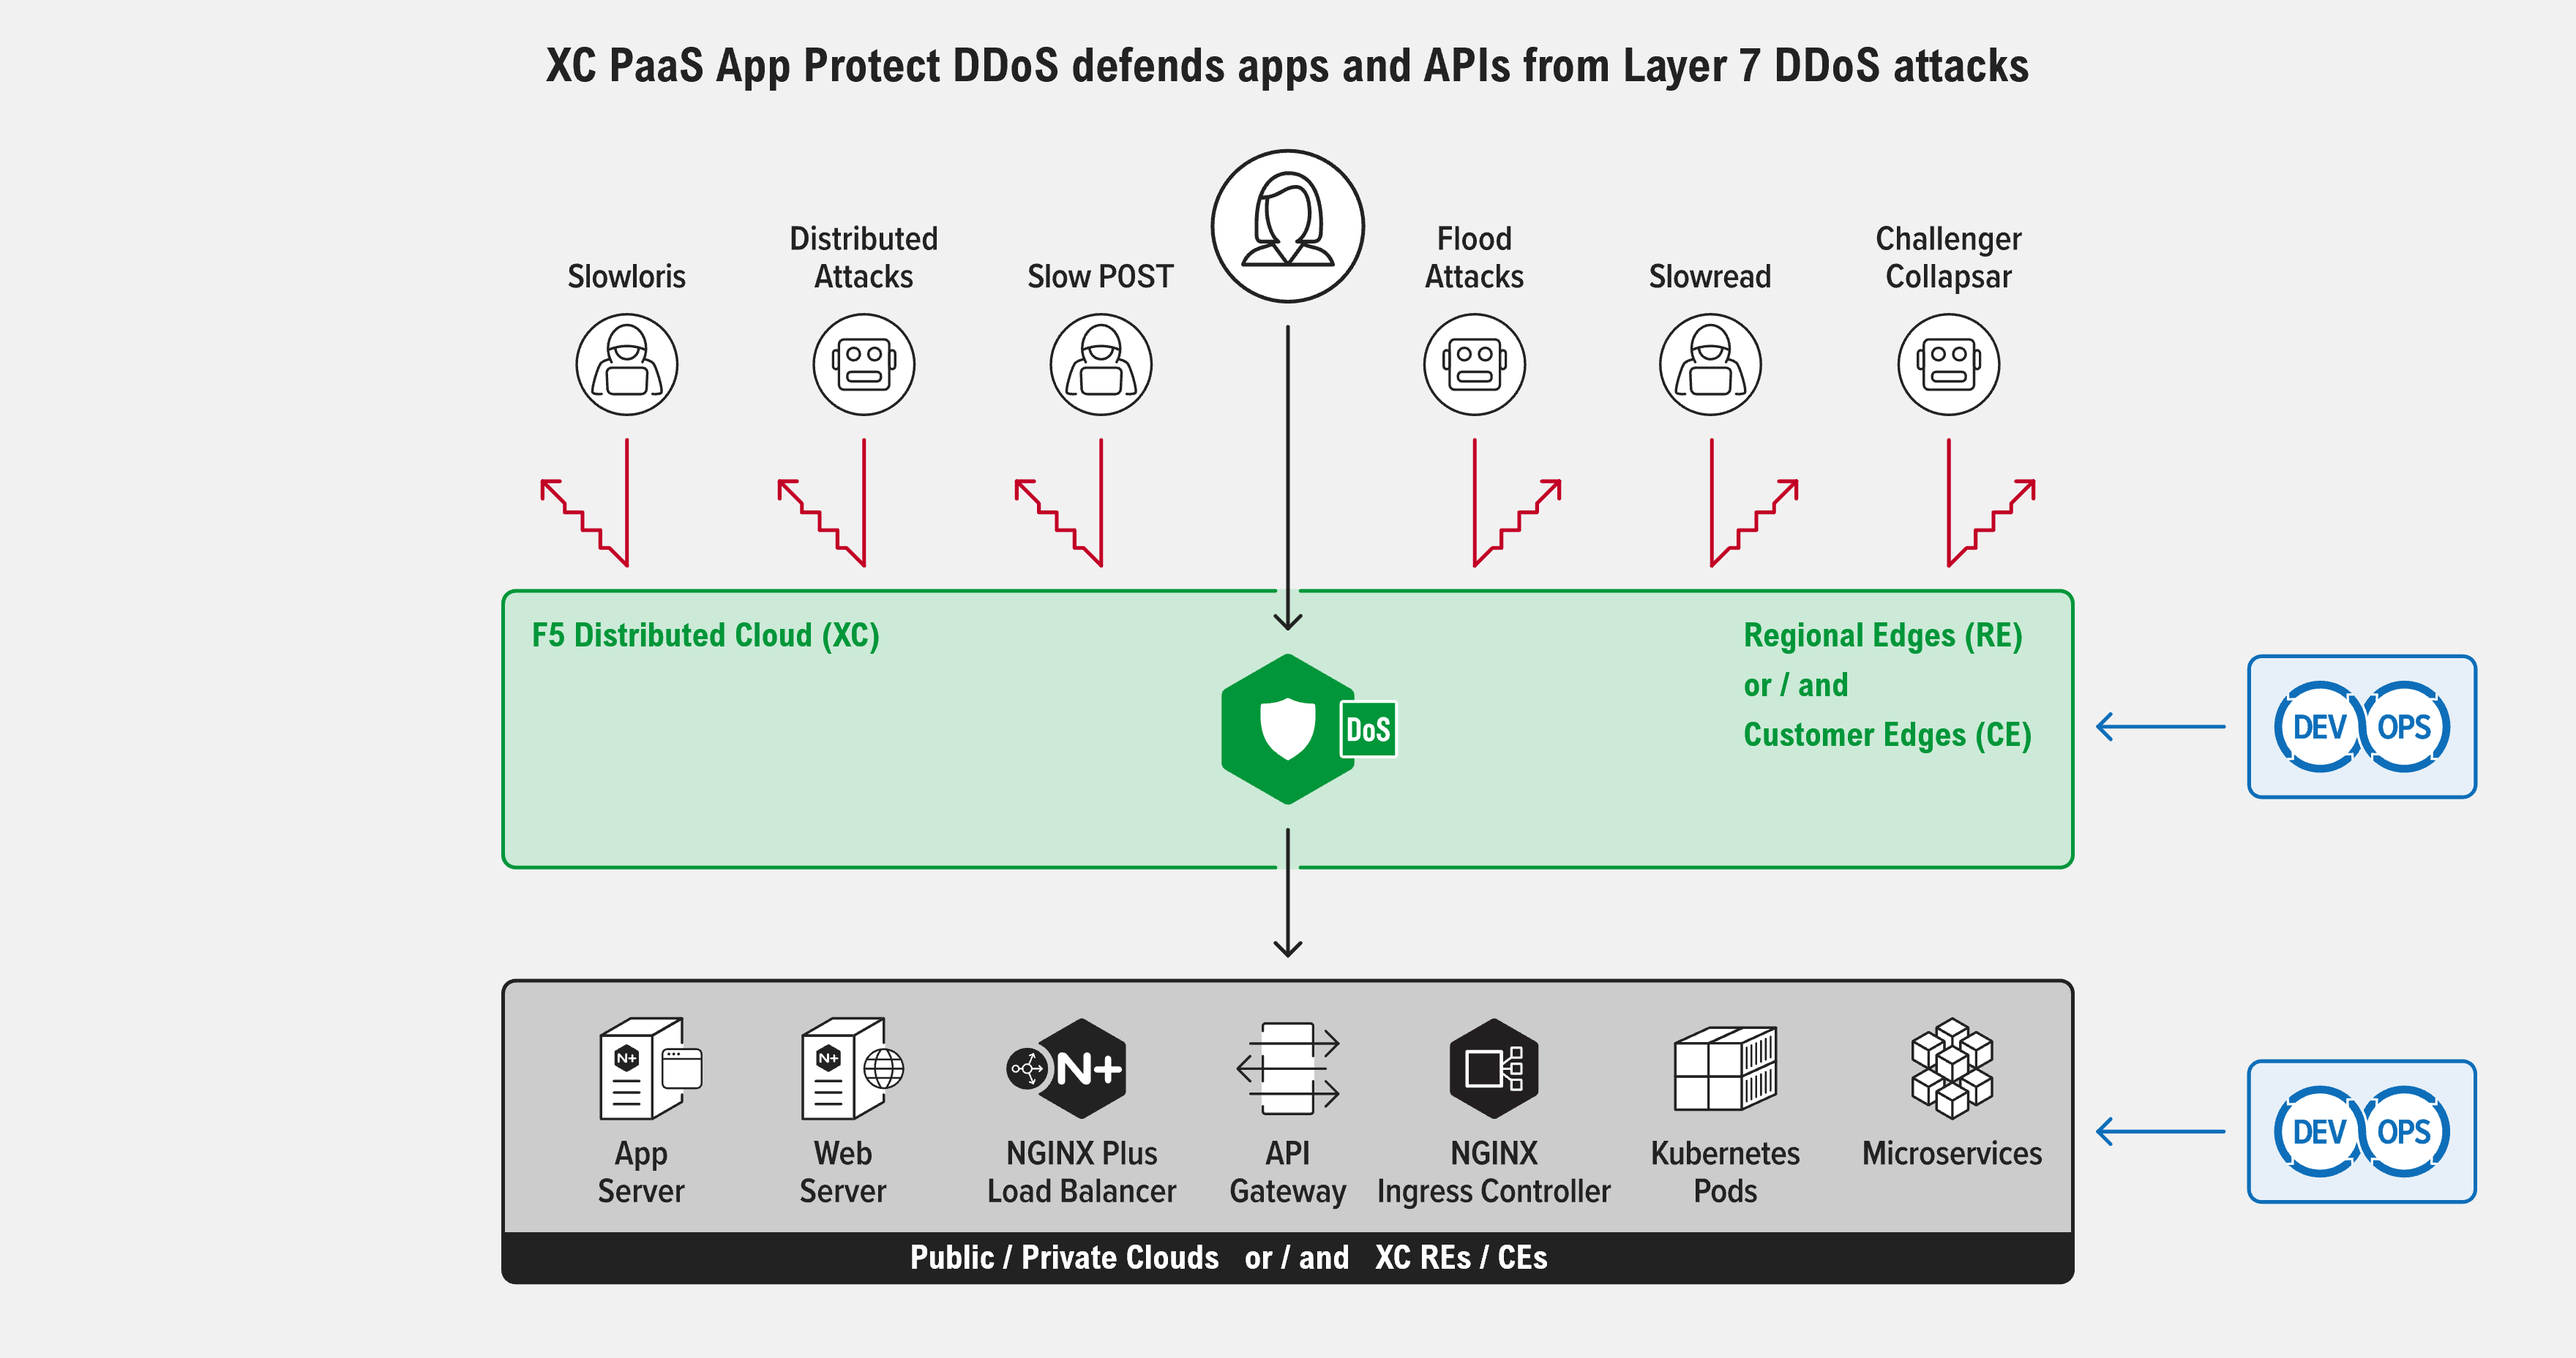
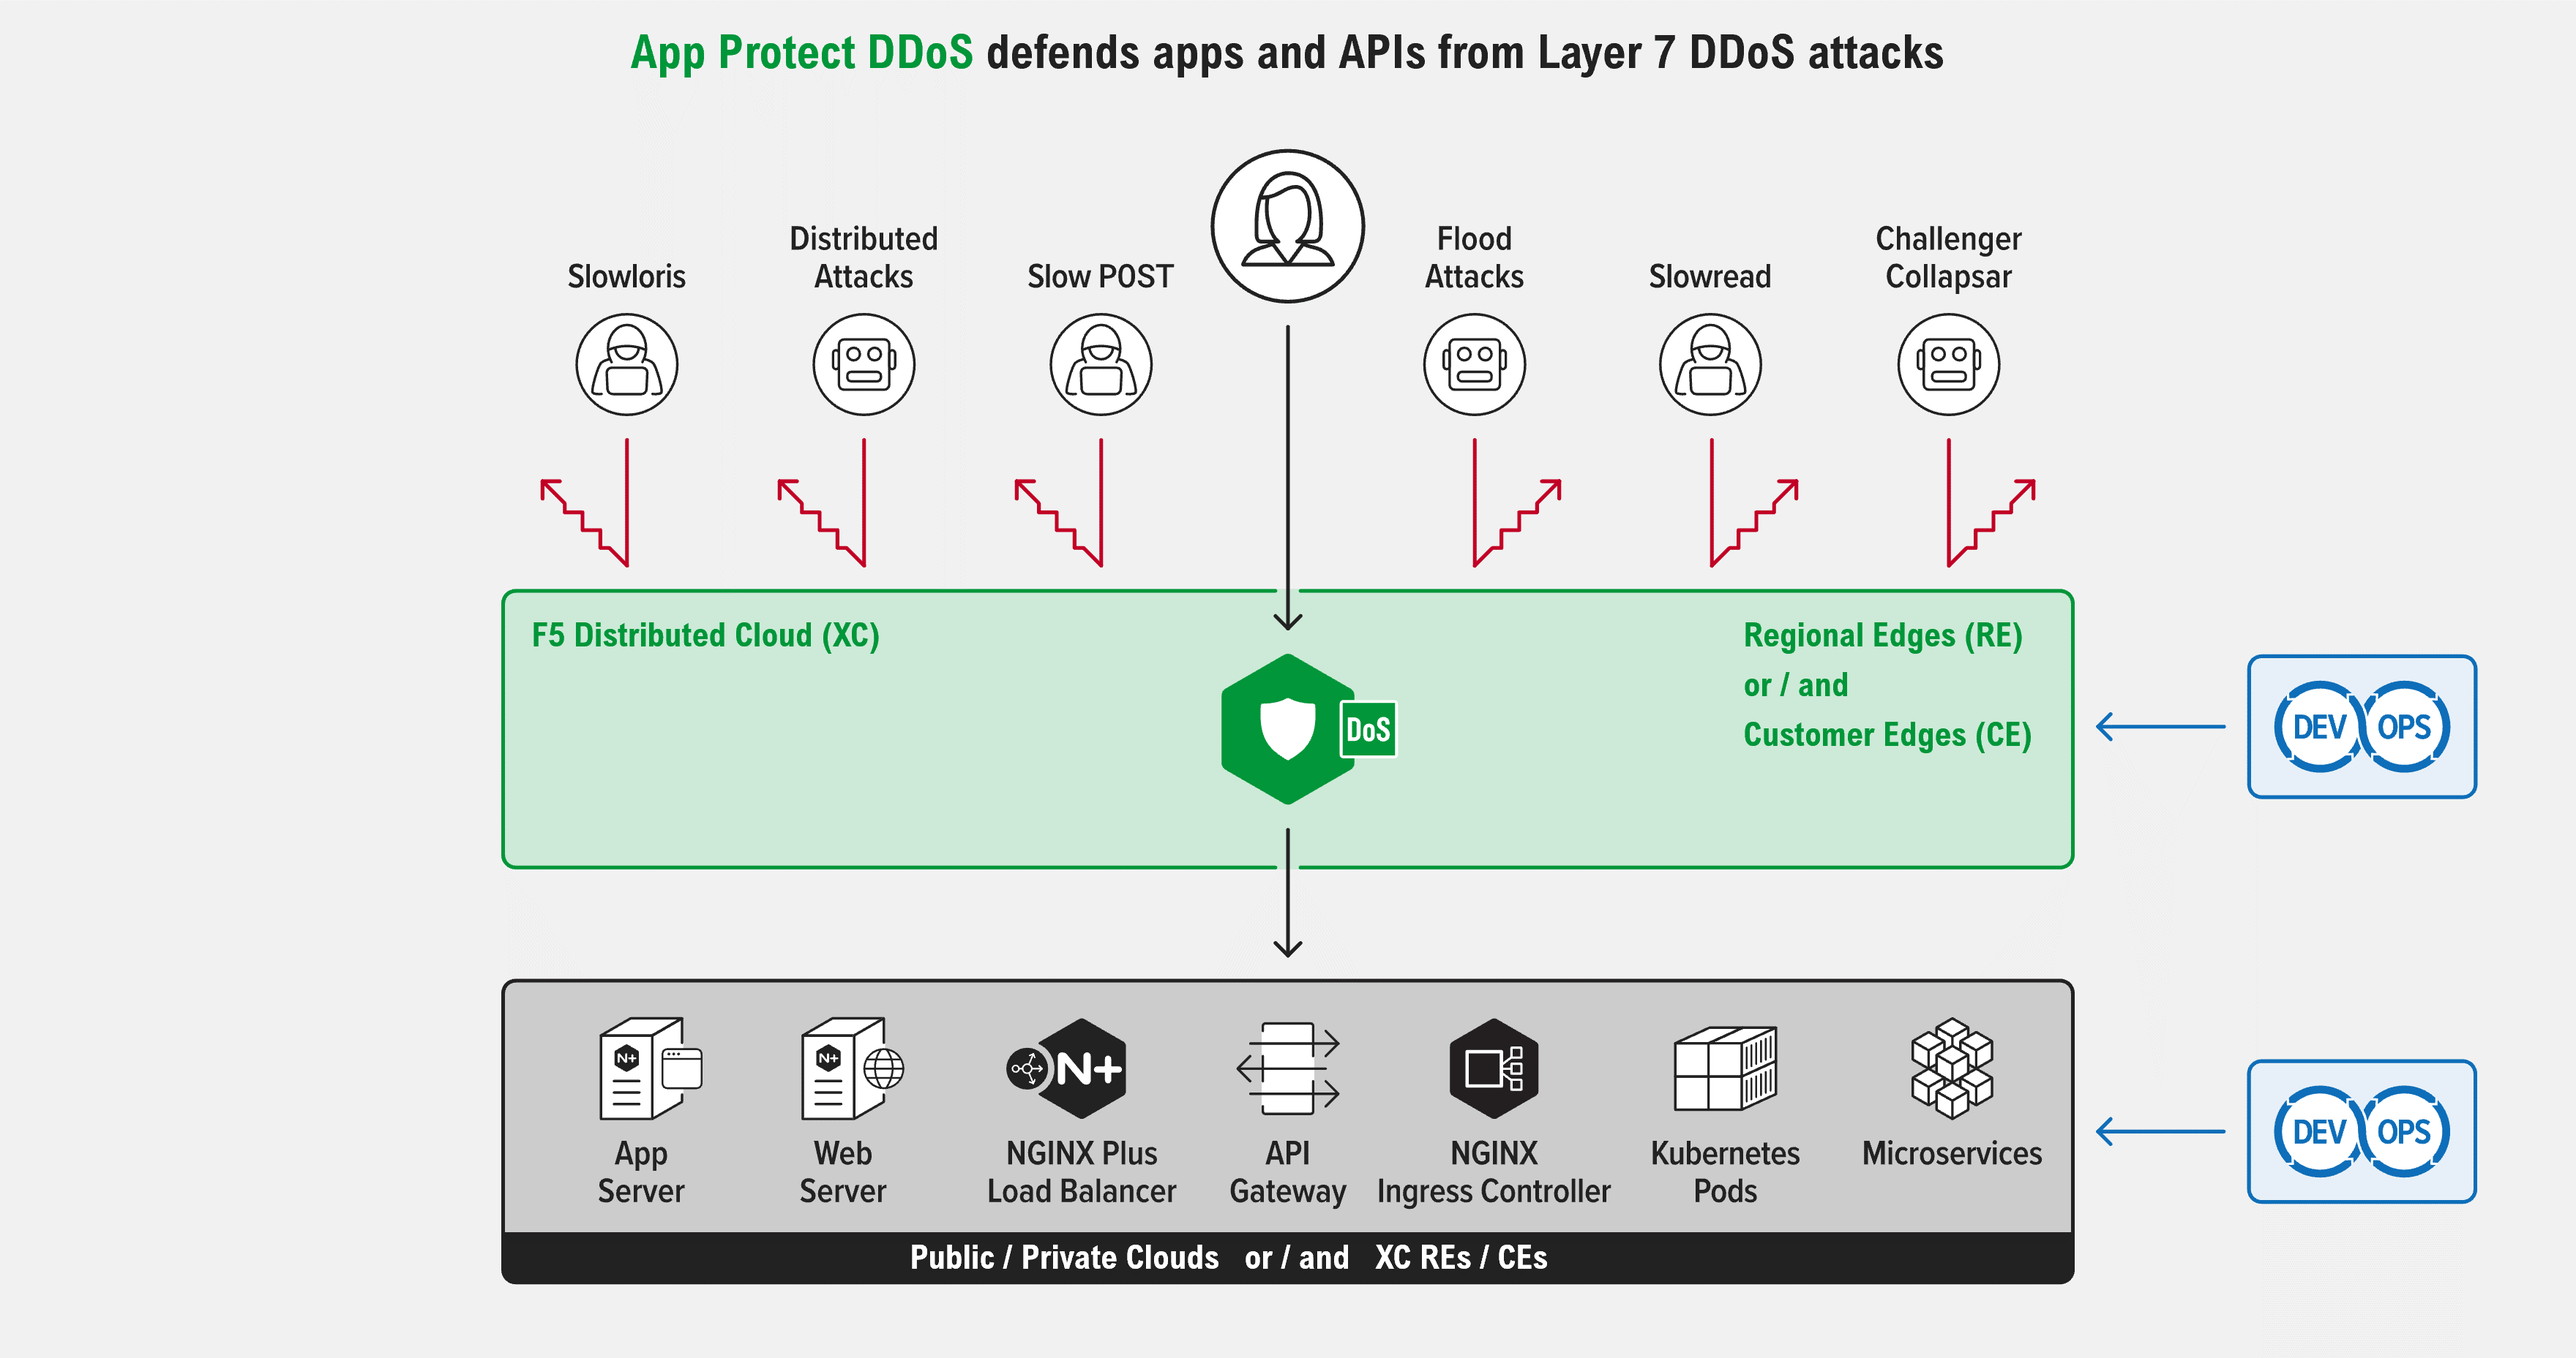
NAP-DOS

Changed region(s): [[0.2188, 0.0312, 0.7812, 0.0625]]

diff --git a/source/class8/module3/module2.rst b/source/class8/module3/module2.rst
@@ -1,7 +1,9 @@
 DDoS App Protect
 #################################################################
 
-*DDoS App Protect* defends, adapts, and mitigates against Layer 7 denial-of-service attacks on your apps and APIs.
+*DDoS App Protect*,
+a F5 Distributed Cloud (XC) Platform as a Service (PaaS),
+defends, adapts, and mitigates against Layer 7 denial-of-service attacks on your apps and APIs.
 
 .. image:: ./_pictures/intro.png
    :align: center
@@ -12,30 +14,98 @@ DDoS App Protect
     :local:
     :depth: 1
 
+Modern Denial of Service Attacks become Complex to detect and mitigate without impacting legitimate users
+*********************************************************************************************************
+
+Denial of Service attacks continue to be ubiquitous and have remained in the top spot of incidents for several years now.
+Source: `DBIR 2023 <https://www.verizon.com/business/fr-fr/resources/reports/dbir/>`_
+
+.. image:: ./_pictures/DBIR_DDOS.png
+   :align: center
+   :width: 600
+   :alt: Patterns over time in incidents
+
+This `blog <https://www.nginx.com/blog/defending-applications-complex-modern-attacks/>`_ describes
+volumetric denial-of-service (DoS) and distributed DoS (DDoS) attacks at the network and transport levels (Layers 3 and 4),
+which exhaust servers’ available bandwidth by flooding them with TCP/UDP connection requests.
+Now attackers have added a new tool to their arsenal – DoS and DDoS attacks that use HTTP requests
+or API calls to exhaust resources at the application level (Layer 7).
+
+Layer 7 attacks are more complex to design than network attacks,
+and many tools that can handle Layer 3/4 attacks are ineffective at protecting modern application architectures.
+Layer 7 DDoS attacks are more difficult to detect because bots and automation allow attackers to disguise themselves as legitimate traffic,
+especially when they’re using sophisticated security penetration tools.
+When a hacker can assemble a botnet – thousands of compromised machines under the hacker’s control – it’s easy to initiate attacks on a huge scale.
+With bad bot traffic stealthily hiding among legitimate customer traffic, Layer 7 attacks create a new challenge.
+
 Overview of the XC Multi-Layered DDoS protection
 ***************************************************************
 F5 Distributed Cloud (XC) offers a multi-Layered DDoS protection:
-    - **1. Volumetric network DDoS protection**: leveraging IP anycast, `highly BGP peered to metro networks <https://bgp.he.net/report/peers>`_ and F5 XC private global network, XC "Transit DDoS" mitigate volumetric DDoS attacks up to 20 Tbps.
-    - **2. TLS based DDoS protection**: when you publish an application on XC, using an HTTP LB object, a native L7 DDoS protection detects attacks leveraging Machine Learning and automatically mitigate attacks identified by the botnet's TLS fingerprint.
-    - **2. HTTP headers based DDoS protection**: **DDoS App Protect** analyzes client behavior and application health to model normal traffic patterns, uses unique algorithms to create a dynamic statistical model that provides the most accurate protections, and deploys dynamic signatures to automatically mitigate attacks.
+    - **1. Volumetric network DDoS protection**: leveraging IP anycast, `highly BGP peered to metro networks <https://bgp.he.net/report/peers>`_ and F5 XC private global network, XC "Transit DDoS" mitigates volumetric DDoS attacks up to 20 Tbps.
+    - **2. TLS based DDoS protection**: when you publish an application on XC, using an HTTP LB object, a native L7 DDoS protection detects attacks leveraging Machine Learning and automatically mitigates attacks identified by the botnet's TLS fingerprint.
+    - **2. HTTP headers based DDoS protection**: *DDoS App Protect* analyzes client behavior and application health to model normal traffic patterns, uses unique algorithms to create a dynamic statistical model that provides the most accurate protections, and deploys dynamic signatures to automatically mitigate attacks.
 
 .. image:: ./_pictures/oignon-multi-layered-ddos-protection.png
    :align: center
    :width: 1000
    :alt: Onion
 
-Benefits
+L7 DDoS protection, a Modern Solution for a Modern Problem
 ***************************************************************
+What are the key components that protect against Layer 7 attackers?
+
+On a basic level,
+you need a tool that recognizes when your site is under attack
+– something that’s able to distinguish between “good guys” (legitimate traffic) and “bad guys” (malicious traffic).
+
 PaaS *DDoS App Protect* is a **fire and forget** solution,
 that can be **deployed everywhere** on the globe
 and blocks traffic **closest to attackers**
-and **only requests that causes harm**.
+and **only requests that cause harm**.
 
-Closest to the attackers
+Seamless integration
+=============================================
+*DDoS App Protect* is a native PaaS deployed in F5 XC Edges:
+    - in F5 managed infrastructure (Regional Edge)
+    - or/and in Customer Private / Public Clouds (Customer Edge)
+
+Components of the solution are:
+    1. **Data-plane / gateways** workload: gateways learn traffic, enforce security rules and notify the arbitrator of ongoing attacks
+    2. **Control-plane / the arbitrator** workload: the arbitrator is aware of all ongoing attacks and synchronise gateways to enforce security rules of all ongoing attacks
+    3. **Analytics plane / log collector / SIEM**: customer is free to forward metrics and security event from gateways to a his own log collector or SIEM solution. `Here <https://github.com/f5devcentral/nap-dos-elk-dashboards>`_ a simple ELK dashboard used for the demo.
+
+.. image:: ./_pictures/components.png
+   :align: center
+   :width: 1000
+   :alt: components
+
+*demo video:*
+
+** Workloads **
+.. raw:: html
+
+    <a href="http://www.youtube.com/watch?v=cO2bbAVtTdw"><img src="http://img.youtube.com/vi/cO2bbAVtTdw/0.jpg" width="600" height="300" title="XC PaaS DDoS App Protect - components"></a>
+
+Monitoring of the solution
 =============================================
 
-Lowest False Positive
-=============================================
+F5 XC offers native *Service Mesh* dashboards:
+    **1. Data-plane**: health of the data-plane service per location and key metrics of users traffic
+    **2. Control-plane**: health of the control-plane services per location and key metrics of operational traffic
+
+*demo video:*
+
+** Service Mesh dashboard of Data-plane **
+.. raw:: html
+
+    <a href="http://www.youtube.com/watch?v=WtT1W45Oid4"><img src="http://img.youtube.com/vi/WtT1W45Oid4/0.jpg" width="600" height="300" title="XC PaaS DDoS App Protect - Service Mesh - data-plane"></a>
+
+** Service Mesh dashboard of Control-plane **
+.. raw:: html
+
+    <a href="http://www.youtube.com/watch?v=yDj0WBGCVDE"><img src="http://img.youtube.com/vi/yDj0WBGCVDE/0.jpg" width="600" height="300" title="XC PaaS DDoS App Protect - Service Mesh - control-plane"></a>
+
+
 
 Cost-effective
 =============================================
@@ -47,6 +117,24 @@ Cost-effective
 In Progress
 
 ----------------------------------------------------
+
+
+Lowest False Positive
+=============================================
+
+
+
+Boundless scaling
+=============================================
+Better the attack is distributed,
+more difficult will be the detection, based on a small portion of the traffic,
+and the mitigation too, because it requires a synchronization between all security sensors.
+your protection
+
+
+
+Closest to the attackers
+
 
 No-touch policy configuration
 a **zero touch** solution
